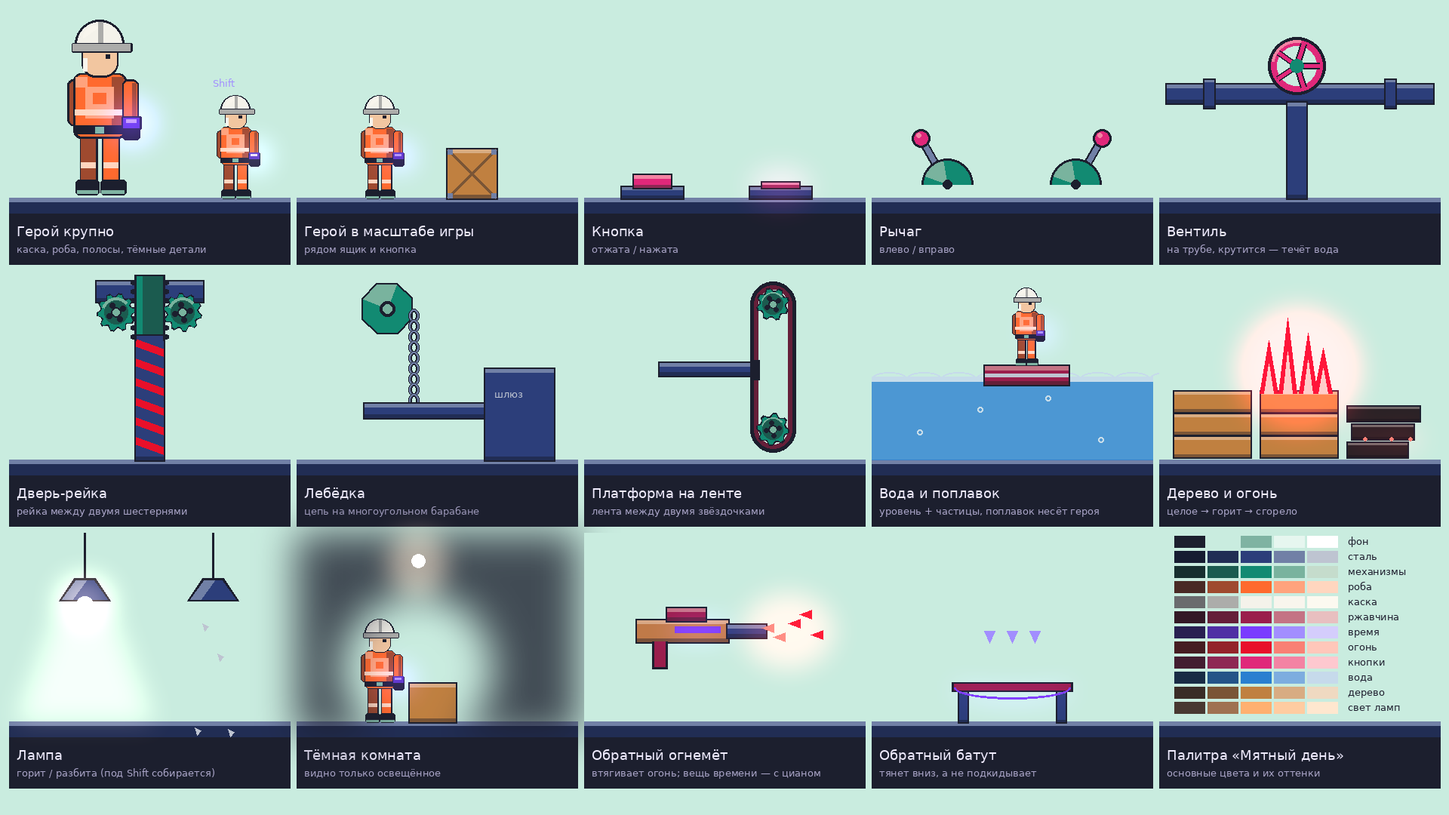
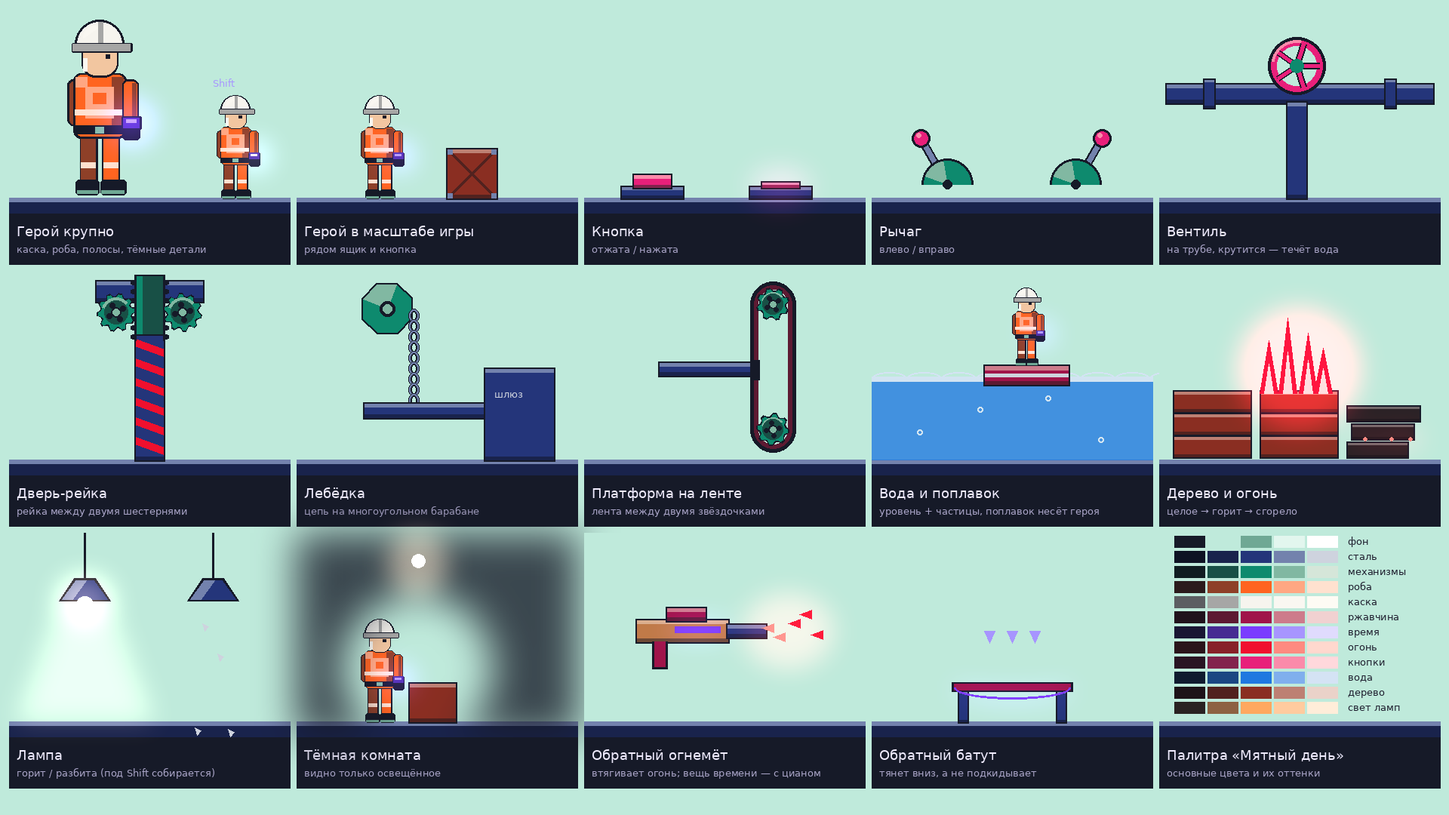
Make the reserve palettes juicier: mint day wood, chocolate and neon
Mint day gets dark cherry wood and wider shade ramps; the pale sepia and
neon palette becomes chocolate and neon with a deep brown base, light warm
steel, copper mechanisms and brighter neon accents.

Claude-Session: https://claude.ai/code/session_016uMLMukZwHQYv3AubYQjUm

diff --git a/tools/palette/objects.py b/tools/palette/objects.py
@@ -3,7 +3,7 @@ from pal_lib import *
 def lab_mix(a, b, t):
     A, B = to_lab(h(a)), to_lab(h(b)); return '%02x%02x%02x' % to_rgb(tuple(A[i] + (B[i] - A[i]) * t for i in range(3)))
 def fam(key, dark, light, dk=.72, lt=.72): return (lab_mix(key, dark, dk), key, lab_mix(key, light, lt))
-def F_(k, dk, lt, d=.72): return ramp(*fam(k, dk, lt, d))
+def F_(k, dk, lt, d=.72, l=.72): return ramp(*fam(k, dk, lt, d, l))
 NAME = sys.argv[3]
 if NAME == 'B':
     DK, LT = '08051c', 'f4f0ff'; f = lambda k, d=.72: F_(k, DK, LT, d)
@@ -11,16 +11,16 @@ if NAME == 'B':
     WATER = f(lab_mix('3f5fe0', '2fb0c8', .45)); WOOD = f(lab_mix('c0503c', '7a4a2a', .5)); TITLE = 'Слива и кобальт'
     SUIT, HAT, GEAR, LIGHT = ST, BR, BR, BR; SKIN_ = BR[4]
 elif NAME == 'M':
-    DK, LT = '0e1018', 'fffcf2'; f = lambda k, d=.72: F_(k, DK, LT, d)
-    N = [h(x) for x in ('1c1f2e', 'c9ecdf', '7fb3a2', 'e6f6ef', 'ffffff')]
-    ST, BR, RU, TM, WM = f('2c3e7a'), f('c07a48'), f('9a1e4c'), f('7a3cff'), f('e8102a'); INT = f('e0287a')
-    WATER = f('2a7fd0'); WOOD = f('c08040'); TITLE = 'Мятный день'
-    SUIT, HAT, GEAR, LIGHT = f('ff6a2e'), f('f4f2ea', .55), f('128a72'), f('ffb070'); SKIN_ = h('f2c6a0')
+    DK, LT = '0a0c14', 'fffdf6'; f = lambda k, d=.84, l=.8: F_(k, DK, LT, d, l)
+    N = [h(x) for x in ('161a28', 'bfeadb', '6fa894', 'e2f6ee', 'ffffff')]
+    ST, BR, RU, TM, WM = f('24357a'), f('c07a48'), f('a0144a'), f('7a3cff'), f('f0102e'); INT = f('e8207a')
+    WATER = f('1f78e0'); WOOD = f('8a2e22'); TITLE = 'Мятный день'
+    SUIT, HAT, GEAR, LIGHT = f('ff6420'), f('f6f4ee', .6), f('0e8a6e'), f('ffa860'); SKIN_ = h('f2c6a0')
 else:
-    DK, LT = '0e0806', 'fff0dc'; f = lambda k, d=.72: F_(k, DK, LT, d)
-    N = f('2a1e18', .75); ST, BR, RU, TM, WM = f('5a4a40'), f('8a6a48'), f('5a2a20'), f('3fe6ff'), f('ff5a1a'); INT = f('ff3d8a')
-    WATER = f('34555e'); WOOD = f('7a5030'); TITLE = 'Сепия и неон'
-    SUIT, HAT, GEAR, LIGHT = f('6a5a40'), f('b8a080'), f('6a4a30'), f('ffd0a0'); SKIN_ = h('d8b090')
+    DK, LT = '0a0504', 'fff3e0'; f = lambda k, d=.86, l=.82: F_(k, DK, LT, d, l)
+    N = f('24140e', .7, .55); ST, BR, RU, TM, WM = f('9a7e6a'), f('b0643a'), f('7a1a22'), f('3ff0ff'), f('ff5a12'); INT = f('ff2e88')
+    WATER = f('2e6a78'); WOOD = f('d8904a'); TITLE = 'Шоколад и неон'
+    SUIT, HAT, GEAR, LIGHT = f('b04a1e'), f('f2dcb4', .7), f('9a5a2e'), f('ffd29a'); SKIN_ = h('e6b48e')
 OL = N[0]; SKIN = SKIN_; CHAR = F_('2a2226', DK, LT)
 def box(d, x0, y0, x1, y1, rp, o=2, top=4, bot=4):
     d.rectangle([x0 - o, y0 - o, x1 + o, y1 + o], fill=OL); d.rectangle([x0, y0, x1, y1], fill=rp[2])

diff --git a/docs/progress.md b/docs/progress.md
@@ -19,7 +19,7 @@
     - Делёж предварительный: освободился первым — бери следующую свободную задачу Д, у которой готово всё, от чего она зависит, и впиши себя в «Кто что делает» до начала (D59).
     - 3.3 уровень 04 — на паузе до конца блока; ответы на D56 и D57 нужны к нему.
   - **Л:** дать уровень 01 человеку со стороны без объяснений (первая кнопка в списке уровней; с 16.11 в нём дверь и две платформы) и записать, где он застрял и сколько ушло времени.
-- **18.11.2026, Д1 лист стиля — палитра готова, остальное в следующем чате (ветка `ccr-04913695-3sn4fv`):** палитра выбрана с Артёмом за 6 кругов черновиков: основная «Слива и кобальт» и две запасные («Мятный день», «Сепия и неон»), все в `game/data/art.json` (активная — `active_palette`, проверка `Content.validate_art`), описание и листы — [art/palette.md](art/palette.md). Из черновиков берём только цвет, формы объектов не утверждены. **Осталось по Д1:** тестовая сцена `game/levels/style_test.tscn` (плита с верхней гранью — число в `art.json`, кусок фона, шестерня с рейкой, силуэт героя) и общий шейдер материала по правилу «контур, тело, светлая кромка, тень» из palette.md; снимки через `tools/shots.sh`; лист `docs/art/style-sheet.md`; переписать `setting.md`, `art-pipeline.md`, «Visual rules» в `CLAUDE.md`; пометка в `style.md`. Ответить на D60 (циан на механизмах только под Shift).
+- **18.11.2026, Д1 лист стиля — палитра готова, остальное в следующем чате (ветка `ccr-04913695-3sn4fv`):** палитра выбрана с Артёмом за 6 кругов черновиков: основная «Слива и кобальт» и две запасные («Мятный день», «Шоколад и неон»), все в `game/data/art.json` (активная — `active_palette`, проверка `Content.validate_art`), описание и листы — [art/palette.md](art/palette.md). Из черновиков берём только цвет, формы объектов не утверждены. **Осталось по Д1:** тестовая сцена `game/levels/style_test.tscn` (плита с верхней гранью — число в `art.json`, кусок фона, шестерня с рейкой, силуэт героя) и общий шейдер материала по правилу «контур, тело, светлая кромка, тень» из palette.md; снимки через `tools/shots.sh`; лист `docs/art/style-sheet.md`; переписать `setting.md`, `art-pipeline.md`, «Visual rules» в `CLAUDE.md`; пометка в `style.md`. Ответить на D60 (циан на механизмах только под Shift).
 - **17.11.2026, план дизайна и Д0 (ветка `claude/quirky-archimedes-smw5fw`):** стиль выбран (D44): завод или склад-полулаборатория, механизмы на виду (эскизы Артёма — `docs/art/reference/`), жесть, ржавчина, дерево, резина, свечение, лёгкий наклон камеры сверху, герой — рабочий в комбинезоне и каске; циан остаётся (D47). Порядок (D59): сначала полный дизайн 01–02 (Д0–Д9 в roadmap), Артём — Д1, Д3, Д5, Д8, Борис — Д2, Д4, Д6, Д7. Д0 сделана: `tools/shots.sh level_01 --every 60 --scale 0.5` проигрывает решение уровня в настоящем рендере (xvfb в облаке) и даёт лист кадров `build/shots/level_01/sheet.png` с подписями «тик, вперёд или назад»; `--video` — ролик; ключи — в начале `tools/shots.gd`. Код игры не менялся.
 - **17.11.2026, Артём на Claude Pro (ветка `claude/pensive-brown-zwe4gw`):** Claude Code теперь есть у обоих: Артём берёт задачи О и О+ в Claude Code на Opus, А — там же на Sonnet или в Antigravity, А− — на Gemini Flash (D58, уточняет D46). Обновлены `CLAUDE.md`, `AGENTS.md`, [how-we-work.md](how-we-work.md) (инструменты, лимиты Pro, вход в claude.ai/code). Код игры не менялся.
 - **17.11.2026, 3.1 Уровень 02 «Поток», по новой идее Артёма (ветка `claude/level-02-flow`):** вентиль убран совсем. Комната 41×20 клеток (около 1,3 экрана), камера едет за героем. Герой выходит из проёма слева на уступ (три клетки), уступ на 5 клеток ниже линии полной воды. Справа колодец 11×12 клеток с поплавком и решёткой слева от него; кнопка с искрами лежит в конце тоннеля: он уходит вправо от дна колодца под бассейн (10×2 клетки), у входа в него шлюз (`WaterGate`: сам открывается, когда колодец почти сух, и закрывается, когда вода поднимается); за колодцем стена шириной 2 клетки, верх на линии воды; за стеной бассейн глубиной 7 клеток, дверь, выход. Обе воды стоят в сцене с `powered` и сливаются с τ = 0 (колодец 9 с, бассейн 4,2 с, `Water.apply_settings` из `levels.json`), предыстория 4,5 с, вход героя 0,3 с. Вода уровня не поднимает героя (`lifts_player: false`), только поплавок. Путь: спуститься в колодец, дождаться, пока вода уйдёт, пройти в тоннель и нажать E на кнопке, вернуться, встать на поплавок, зажать Shift, шагнуть на стену, отпустить: повтор сам нажимает кнопку (около 11,5 с после отпускания) и открывает дверь, герой идёт к выходу (ядро не правилось, повтор нажатия проверен тестом до постройки и прогоном решения). Тесты: `test_level_02.gd` (15), решения `level_02.json`, `_no_shift`, `_no_button`; проверены поломкой (кнопка не включает дверь, вода не читает свой темп). 181 тест и UI-тест зелёные. Не решено: D56 (на героя около 15 с истории, решение нажимает Shift на 14,7 с из 20, запас около 5 с); ожидание на повторе около 11,5 с до нажатия и 3 с на дверь: смотреть на плейтесте; эффект кнопки из тоннеля не виден; блокаут серый; подъём героя водой общим правилом (D48, D50) не отменён, только в 02.

diff --git a/docs/history.md b/docs/history.md
@@ -141,7 +141,7 @@
 | 17.11.2026 | Стиль (D44): не из трёх вариантов теста, а свой от сеттинга — завод или склад-полулаборатория недалёкого будущего, на грани механики и новой техники. Механизмы на виду: двери и платформы двигают шестерни, рейки, цепи и ленты (эскизы Артёма в `docs/art/reference/`: дверь — рейка между шестернями, шлюз — цепь на барабане, платформы — шестерни по зубчатой колонне и лента между звёздочками). Материалы — жесть, ржавый металл, дерево, резина, мягкое свечение; бумажных аппликаций и скотча нет. Вид сбоку с лёгким наклоном сверху: у пола и платформ видна верхняя грань, столкновения не меняются. Фон — склад-полулаборатория, свой у уровня. Герой — рабочий в комбинезоне и каске с устройством на руке. «Рывки» под Shift пробуем в Д7. Циан `#7FE8FF` остаётся (D47). Тест К1 не проводили | Артём: механизм из шестерён сам показывает направление времени и обратим кодом без скачков; заводской сеттинг уже держим (D34, D35); наклон даёт глубину без 3D и не трогает веб-сборку |
 | 17.11.2026 | Порядок (D59): первым — полный дизайн уровней 01–02 (Д0–Д9 в roadmap), новые уровни ждут и одеваются по их образцу; 3.3 Бориса на паузе. Делёж: Борис — механизмы и объекты (Д2, Д4, Д6, Д7), Артём — лист стиля, мир, герой, звук (Д1, Д3, Д5, Д8); всё на Opus в Claude Code; звук — последним в блоке. Делёж предварительный: кто освободился первым, берёт следующую свободную задачу, у которой готово всё, от чего она зависит, и вписывает себя в «Кто что делает» | Артём: дальше строить уровни без образца — переделывать их потом; у обоих Pro, Sonnet не нужен. Борис трогает сцены объектов, Артём — сцены уровней: так двое не правят один файл |
 | 17.11.2026 | Инструменты дизайна: Claude рисует кодом (шейдеры, частицы, детали механизмов, риг героя, SVG), смотрит на результат через `tools/shots.sh` (настоящий рендер на виртуальном экране облака, кадры по файлу решения, лист кадров и ролик), показывает команде страницей Artifact; растровые картинки — из приложения Gemini только там, где кодом выходит плоско. Не берём: SpriteCook и другие внешние генераторы спрайтов (чужая лицензия и подписка, покадровая анимация нейросети не идёт назад без скачков), MCP-серверы для редактора Godot (в облаке скрипт снимков делает то же дешевле) | Всё, что нарисовано кодом, обратимо и чисто по правам; без снимков Claude делает дизайн вслепую — проверено 17.11: Godot рисует уровень 01 через xvfb и Mesa в облаке |
-| 18.11.2026 | Палитра (Д1, первая часть): основная «Слива и кобальт» — фон `#1e0f4a`, сталь `#3f5fe0`, механизмы красная медь `#c0503c`, ржавчина-слива `#8e2a7a`, время циан `#3fe6ff`, огонь алый `#ff2418`; у каждого цвета 5 оттенков, сходящихся к общему тёмному и светлому. Запасные — «Мятный день» (светлая, время фиолетовое) и «Сепия и неон» (приглушённая основа, три неоновых акцента). Все три в `game/data/art.json`, активная — `active_palette`. Из черновиков берём только цвет, формы объектов — нет. Ржавые потёки старого стиля убраны: износ — сколы краски, грязь, пыль; ржавчина только на старом железе | Артём: цвета должны завлекать — мало основных, сочные и контрастные, остальное оттенками (референс сочетаний с Pinterest); механизмы медные, не жёлтые; огонь контрастно-красный; две запасные палитры другого устройства — чтобы было куда пересесть, если основная не приживётся; палитра в данных — смена одним полем |
+| 18.11.2026 | Палитра (Д1, первая часть): основная «Слива и кобальт» — фон `#1e0f4a`, сталь `#3f5fe0`, механизмы красная медь `#c0503c`, ржавчина-слива `#8e2a7a`, время циан `#3fe6ff`, огонь алый `#ff2418`; у каждого цвета 5 оттенков, сходящихся к общему тёмному и светлому. Запасные — «Мятный день» (светлая, время фиолетовое) и «Шоколад и неон» (тёплая коричневая основа, три неоновых акцента). Все три в `game/data/art.json`, активная — `active_palette`. Из черновиков берём только цвет, формы объектов — нет. Ржавые потёки старого стиля убраны: износ — сколы краски, грязь, пыль; ржавчина только на старом железе | Артём: цвета должны завлекать — мало основных, сочные и контрастные, остальное оттенками (референс сочетаний с Pinterest); механизмы медные, не жёлтые; огонь контрастно-красный; две запасные палитры другого устройства — чтобы было куда пересесть, если основная не приживётся; палитра в данных — смена одним полем |
 
 ## Журнал
 

diff --git a/docs/art/palette.md b/docs/art/palette.md
@@ -34,13 +34,13 @@
 
 ![Мятный день](palette/mint_day.png)
 
-Противоположность по светлоте: светлый мятный фон, тёмные контрастные предметы с чёрным контуром. Сталь тёмно-синяя, механизмы — в изумрудной заводской краске, роба оранжевая, каска белая, кнопки ягодные, огонь малиново-красный, дерево медовое. **Время — электрический фиолетовый `#7a3cff`**: циан на светлом фоне не виден, и это отступление от D47. Свет на светлом фоне почти не светится — лампы и огонь читаются формой; тёмные комнаты работают как обычно.
+Противоположность по светлоте: светлый мятный фон, тёмные контрастные предметы с чёрным контуром. Сталь тёмно-синяя, механизмы — в изумрудной заводской краске, роба оранжевая, каска белая, кнопки ягодные, огонь малиново-красный, дерево и ящики — тёмная вишня (дополнительный цвет к мяте). Оттенки растянуты шире, чем в основной: тени глубже, блики светлее. **Время — электрический фиолетовый `#7a3cff`**: циан на светлом фоне не виден, и это отступление от D47. Свет на светлом фоне почти не светится — лампы и огонь читаются формой; тёмные комнаты работают как обычно.
 
-## Запасная 2: «Сепия и неон» (`sepia_neon`)
+## Запасная 2: «Шоколад и неон» (`chocolate_neon`)
 
-![Сепия и неон](palette/sepia_neon.png)
+![Шоколад и неон](palette/chocolate_neon.png)
 
-Противоположность по устройству: вся основа приглушённая, тёплая, коричнево-серая, как старая фотография завода (почерневшее железо с бронзовыми кромками, оливковая роба, песочная каска); сочных цветов только три, и они неоновые — циан (время), оранжевый (огонь), розовый (всё, с чем можно взаимодействовать). Глаз сразу находит важное.
+Противоположность по устройству: тёплая коричневая основа и три неоновых акцента — циан (время), оранжевый (огонь), розовый (всё, с чем можно взаимодействовать). Первая версия («Сепия и неон») вышла блёклой, поэтому основа стала сочной и контрастной: почти чёрный шоколадный фон, светлая серо-коричневая сталь, медно-бронзовые механизмы, роба жжёной охры, кремовая каска, карамельное дерево, бордовая ржавчина; оттенки от почти чёрного до кремового.
 
 ## Открыто
 
@@ -49,4 +49,4 @@
 
 ## Пересобрать листы
 
-`python3 -I tools/palette/objects.py out.png tools/palette B` (или `M`, `S`); пятый аргумент — файл, куда записать роли палитры в JSON (так собран `art.json`).
+`python3 -I tools/palette/objects.py out.png tools/palette B` (или `M` — мятный день, `S` — шоколад и неон); пятый аргумент — файл, куда записать роли палитры в JSON (так собран `art.json`).
